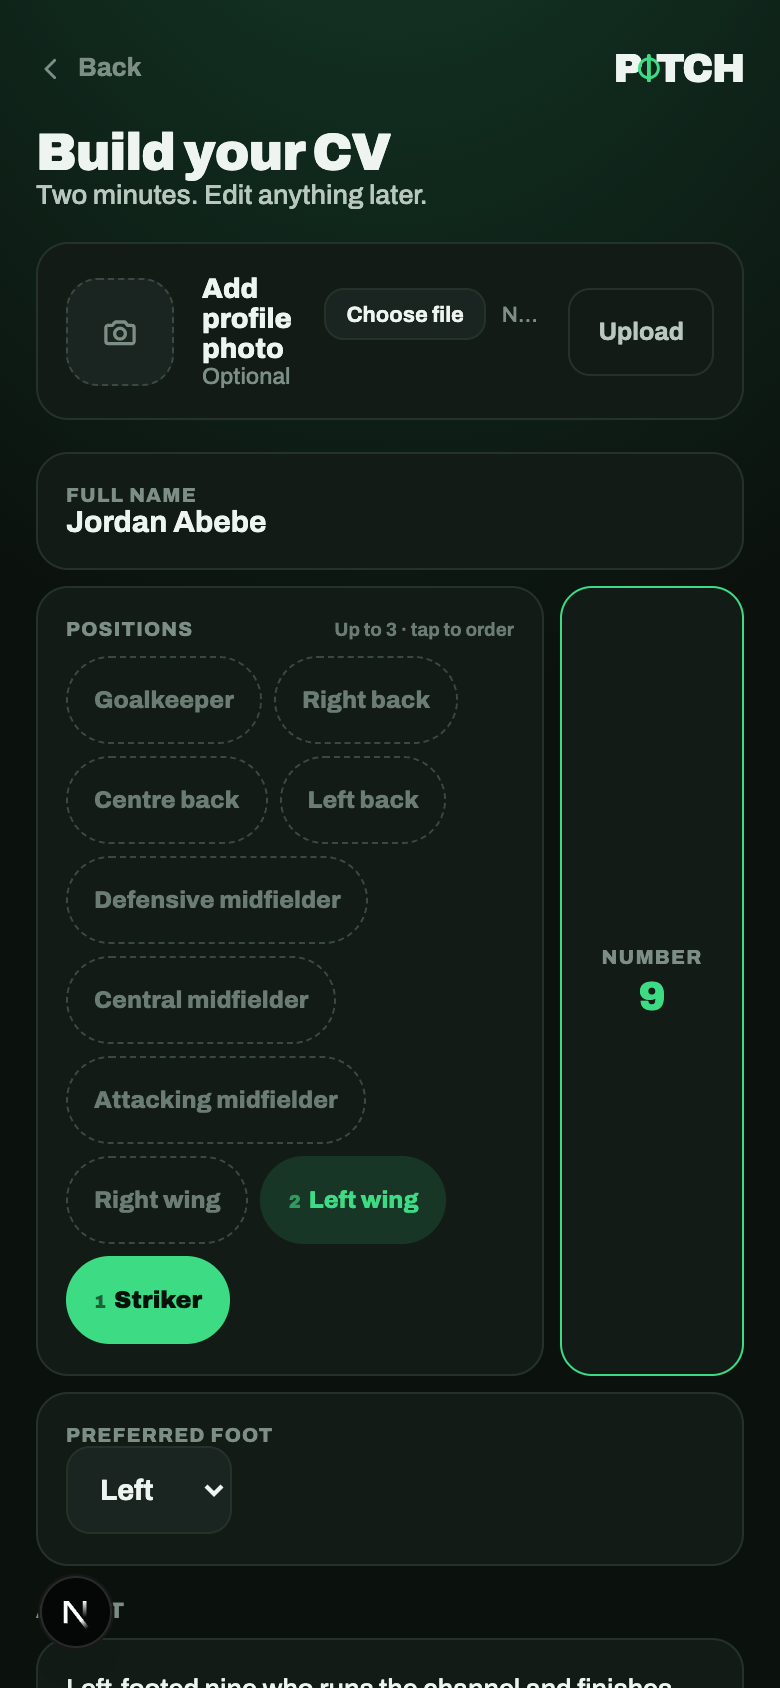
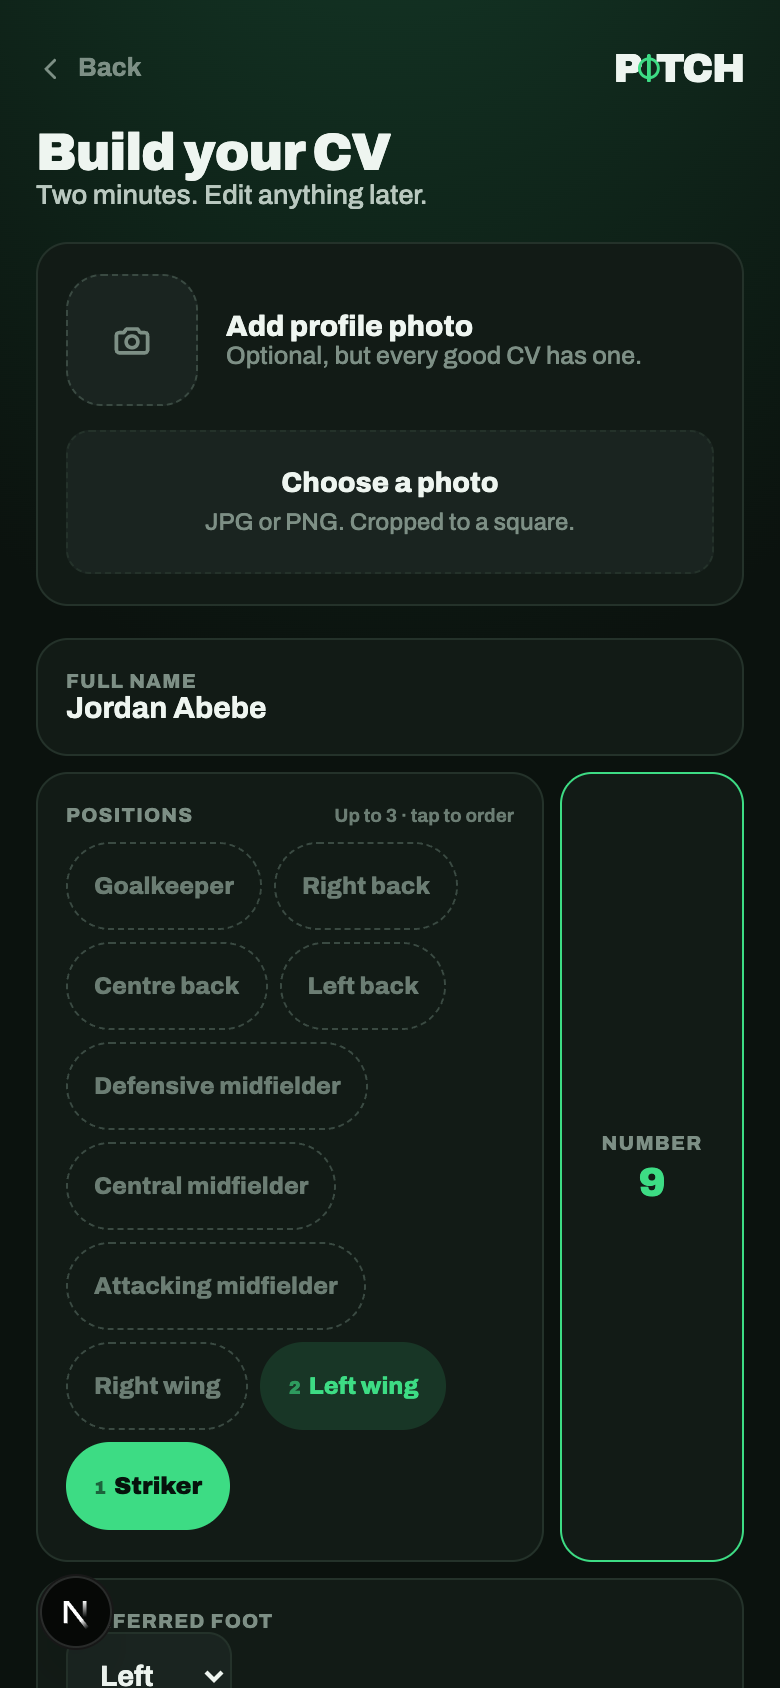
Competition gender is boys, girls, men or women; a clearer photo step
D-68 as amended 15 Sep (register v4.9, BUZ): "mixed" and "open" are gone.
0038 moves "open" squads to men and blanks "mixed" squads and trials for the
club to re-pick, then allows only the four values. The squads form, its
validation, the register labels and the trials filter follow; the trials
filter now offers Boys, Girls, Men and Women. A trial open to everyone
leaves gender blank and shows under All. Seed and permission fixtures
updated; new tests prove mixed and open are refused.

The CV builder's photo step was a squeezed row with a native file control
and a separate Upload button. It is now one clear "Choose a photo" area
that uploads as soon as a photo is picked; without JavaScript the Upload
button appears once a file is chosen. New copy awaiting BUZ.

Preview screens re-captured. Permission 807, render, write 72, all green.

diff --git a/docs/06-Register.html b/docs/06-Register.html
@@ -76,7 +76,7 @@
     <span class="tl"><b>147</b> locked</span>
     <span class="tl"><b>3</b> proposed</span>
     <span class="tl"><b>4</b> open</span>
-    <span class="tl">v4.8 · 15 Sep 2026</span>
+    <span class="tl">v4.9 · 15 Sep 2026</span>
   </div>
 
   <h2>A · Mission &amp; positioning</h2>
@@ -374,8 +374,8 @@
 
   <div class="dec safety"><div class="id">D-68</div><div class="st lk">Locked</div><div class="bd">
     <div class="t">Competition gender lives on the squad, the team listing and the trial notice — never on a child's Person record</div>
-    <div class="w">"U15 Girls, Riverside FC" is a fact about a competition, not an identity attribute on a minor. <b>Rejected:</b> a gender field on a child's Person record — D-25 holds data to the strictly-necessary bar, and an identity attribute on a minor is not strictly necessary for anything the launch product does. <b>What the squad-level shape buys us:</b> the club page lists girls' and women's teams as first-class rows, the trials index filters by girls' age groups from day one, a girl's CV says what she actually plays without Pitch asking her to declare anything, and mixed and MiniRoos football are handled for free — which a person-level field does not do. Girls' football is the most under-valued gap on the board's list and the cheapest to close: it is a filter, a set of rows and a fixture, not a section. <b>Do not build a "girls' football" section</b> — a section reads as a ghetto to the mother deciding in four seconds whether this product was built for someone else's son.</div>
-    <div class="src">Source: Pep session Q2 + Elly A2 · called by BUZ 25 Aug ("women's football is growing")</div></div></div>
+    <div class="w">"U15 Girls, Riverside FC" is a fact about a competition, not an identity attribute on a minor. <b>Rejected:</b> a gender field on a child's Person record — D-25 holds data to the strictly-necessary bar, and an identity attribute on a minor is not strictly necessary for anything the launch product does. <b>What the squad-level shape buys us:</b> the club page lists girls' and women's teams as first-class rows, the trials index filters by girls' age groups from day one, a girl's CV says what she actually plays without Pitch asking her to declare anything, and mixed and MiniRoos football are handled for free — which a person-level field does not do. Girls' football is the most under-valued gap on the board's list and the cheapest to close: it is a filter, a set of rows and a fixture, not a section. <b>Do not build a "girls' football" section</b> — a section reads as a ghetto to the mother deciding in four seconds whether this product was built for someone else's son.<br><br><b>Amended 15 Sep &mdash; four values, no more.</b> <b>BUZ's call:</b> competition gender is <b>boys, girls, men or women</b>. &ldquo;Mixed&rdquo; and &ldquo;open&rdquo; are removed from squads, trial notices, filters and the site. The sentence above that says mixed and MiniRoos football are &ldquo;handled for free&rdquo; no longer holds: <b>a MiniRoos squad picks boys or girls</b>. <b>A trial open to everyone leaves gender blank</b> and appears under &ldquo;All&rdquo; on the trials board. Existing &ldquo;open&rdquo; squads become men; existing &ldquo;mixed&rdquo; squads and trials become blank for the club to re-pick. <b>Unchanged:</b> gender lives on the squad, the team listing and the trial notice, never on a child (D-25).</div>
+    <div class="src">Source: Pep session Q2 + Elly A2 · called by BUZ 25 Aug ("women's football is growing") &middot; amended 15 Sep: four values only (BUZ)</div></div></div>
 
   <div class="dec"><div class="id">D-69</div><div class="st lk">Locked</div><div class="bd">
     <div class="t">Positions: multi-select, maximum three, ordered by preference — goalkeeper is a pickable position, and there is no "still finding my position" state</div>
@@ -834,7 +834,7 @@
     <p style="margin:0;font-size:.87rem;color:var(--ink2)">Two decisions remain open, both club pricing, both deliberately held: <b style="color:var(--ink)">D-36</b> club pricing model and <b style="color:var(--ink)">D-39</b> club free-tier boundary — <b>held until the TD coffees</b>, and <b>D-87</b> gives us until 31 Jan 2027 to close them, so deciding early would be spending the answer before we have earned it. Every coffee asks the same four questions: what was the last software this club paid for, how much, who signed it off, in what month.<br><br><b>D-34 is now closed</b> ($79/yr or $9.99/mo — see D-82). Everything else is called: Stage 0 design-complete (D-22, D-29, D-48–D-52), the launch locked and re-scoped (D-45–D-47, D-74–D-79), post-launch sequence set (D-54–D-58, D-86), the development framework settled (D-60, D-61, D-71), and the 25 Aug board review recorded in full (D-67–D-87), with the design review that followed it (D-88–D-91) and the football vocabulary closed (D-92), with the club role model corrected (D-93) and security set as a standing build posture (D-94), with the legal pack reconciled (D-95–D-98). <b>The handover set is complete:</b> doc 14 (permission tests, the launch gate), doc 15 (every message that sends), doc 16 (positions, stats, fixtures).</p>
   </div>
 
-  <p class="foot">Pitch 3.0 · Design Decisions Register · v4.8 · 15 Sep 2026 · changes only by BUZ's explicit call, by decision number · 25&ndash;27 Aug entries recorded by Leo (CTO)</p>
+  <p class="foot">Pitch 3.0 · Design Decisions Register · v4.9 · 15 Sep 2026 · changes only by BUZ's explicit call, by decision number · 25&ndash;27 Aug entries recorded by Leo (CTO)</p>
 </div>
 </body>
 </html>

diff --git a/app/build/[recordId]/BuildForm.tsx b/app/build/[recordId]/BuildForm.tsx
@@ -23,6 +23,8 @@ const label: React.CSSProperties = { fontSize: 10, fontWeight: 800, letterSpacin
 const input: React.CSSProperties = { background: 'transparent', border: 'none', outline: 'none', color: T.ink, fontSize: 15, fontWeight: 700, fontFamily: 'inherit', padding: 0, width: '100%' };
 
 export default function BuildForm({ record, saved }: { record: RecordData; saved: boolean }) {
+  const [photoName, setPhotoName] = useState<string | null>(null);
+  const [uploading, setUploading] = useState(false);
   const [positions, setPositions] = useState<string[]>(record.positions ?? []);
   const [surfaced, setSurfaced] = useState<string[]>(record.surfaced_stats?.length ? record.surfaced_stats : ['apps', 'goals', 'assists']);
   const toggle = (code: string) =>
@@ -44,22 +46,40 @@ export default function BuildForm({ record, saved }: { record: RecordData; saved
             Saved. {record.has_pending ? 'Your parent will see this change before it goes out.' : ''}
           </div>
         )}
-        {/* photo leads the build screen: every good CV has one */}
-        <form action={`/build/${record.id}/photo`} method="post" encType="multipart/form-data" style={{ ...card, display: 'flex', alignItems: 'center', gap: 14 }}>
-          {record.photo_path ? (
-            /* eslint-disable-next-line @next/next/no-img-element */
-            <img src={record.photo_path} alt="" width={52} height={52} style={{ borderRadius: 16, objectFit: 'cover' }} />
-          ) : (
-            <div style={{ width: 52, height: 52, borderRadius: 16, background: T.surface2, border: '1.5px dashed #3a4a42', display: 'flex', alignItems: 'center', justifyContent: 'center', flexShrink: 0 }}>
-              <svg width="20" height="20" viewBox="0 0 24 24" fill="none" stroke={T.muted} strokeWidth="2" strokeLinecap="round" strokeLinejoin="round"><path d="M5 8 h2.5 l1.5-2 h6 l1.5 2 H19 a1.5 1.5 0 0 1 1.5 1.5 v8 A1.5 1.5 0 0 1 19 19 H5 a1.5 1.5 0 0 1-1.5-1.5 v-8 A1.5 1.5 0 0 1 5 8 Z" /><circle cx="12" cy="13" r="3.2" /></svg>
+        {/* photo leads the build screen: every good CV has one. One big target
+            instead of a squeezed row: choosing a photo uploads it straight
+            away. Without JavaScript the Upload button appears once a file is
+            chosen (globals.css .photo-form), so the form still works. */}
+        <form action={`/build/${record.id}/photo`} method="post" encType="multipart/form-data" className="photo-form"
+          onSubmit={() => setUploading(true)}
+          style={{ ...card, display: 'flex', flexDirection: 'column', gap: 12 }}>
+          <div style={{ display: 'flex', alignItems: 'center', gap: 14 }}>
+            <div style={{ width: 64, height: 64, borderRadius: 18, background: T.surface2, border: record.photo_path ? `1px solid ${T.line}` : '1.5px dashed #3a4a42', display: 'flex', alignItems: 'center', justifyContent: 'center', flexShrink: 0, overflow: 'hidden' }}>
+              {record.photo_path ? (
+                /* eslint-disable-next-line @next/next/no-img-element */
+                <img src={record.photo_path} alt="" width={64} height={64} style={{ objectFit: 'cover' }} />
+              ) : (
+                <svg width="22" height="22" viewBox="0 0 24 24" fill="none" stroke={T.muted} strokeWidth="2" strokeLinecap="round" strokeLinejoin="round" aria-hidden><path d="M5 8 h2.5 l1.5-2 h6 l1.5 2 H19 a1.5 1.5 0 0 1 1.5 1.5 v8 A1.5 1.5 0 0 1 19 19 H5 a1.5 1.5 0 0 1-1.5-1.5 v-8 A1.5 1.5 0 0 1 5 8 Z" /><circle cx="12" cy="13" r="3.2" /></svg>
+              )}
             </div>
-          )}
-          <div style={{ flex: 1 }}>
-            <div style={{ fontSize: 14, fontWeight: 800 }}>Add profile photo</div>
-            <div style={{ fontSize: 11.5, fontWeight: 500, color: T.muted }}>Optional</div>
+            <div style={{ flex: 1 }}>
+              <div style={{ fontSize: 14.5, fontWeight: 800 }}>Add profile photo</div>
+              <div style={{ fontSize: 12.5, fontWeight: 500, color: T.muted }}>Optional, but every good CV has one.</div>
+            </div>
           </div>
-          <input type="file" name="photo" aria-label="Add profile photo" accept="image/*" required style={{ width: 108, height: 44, fontSize: 11, color: T.muted, fontFamily: 'inherit' }} />
-          <button type="submit" style={{ border: `1px solid ${T.line}`, background: 'transparent', color: T.secondary, borderRadius: 11, height: 44, padding: '0 14px', fontSize: 12.5, fontWeight: 700, cursor: 'pointer', fontFamily: 'inherit' }}>Upload</button>
+          <label className="filefield">
+            <input type="file" name="photo" aria-label="Add profile photo" accept="image/*" required
+              onChange={(e) => {
+                const file = e.currentTarget.files?.[0];
+                if (!file) return;
+                setPhotoName(file.name);
+                setUploading(true);
+                e.currentTarget.form?.requestSubmit();
+              }} />
+            <span className="filefield-title">{uploading ? 'Uploading…' : photoName ?? (record.photo_path ? 'Choose a new photo' : 'Choose a photo')}</span>
+            <span className="filefield-hint">JPG or PNG. Cropped to a square.</span>
+          </label>
+          <button type="submit" className="btn btn-secondary photo-save">Upload photo</button>
         </form>
         <form action={act} style={{ display: 'flex', flexDirection: 'column', gap: 16 }}><input type="hidden" name="recordId" value={record.id} />
           <input type="hidden" name="positions" value={positions.join(',')} />

diff --git a/lib/fixtures.ts b/lib/fixtures.ts
@@ -32,7 +32,7 @@ export interface PlayerFixture {
   club: string;
   clubCrestPath?: string;  // the CURRENT club's badge — from membership, never typed
   locality?: string;       // 'Brunswick VIC' — the club's, not the child's address
-  squad: { name: string; ageGroup: string; competitionGender: 'boys' | 'girls' | 'mixed' | 'open' };
+  squad: { name: string; ageGroup: string; competitionGender: 'boys' | 'girls' | 'men' | 'women' | null };
   // Clubs before this one. The player's own account (D-72) — free text, no
   // FK, grants nothing. Never derived from membership: membership only knows
   // clubs that were on Pitch, so deriving it would start everyone's history
@@ -179,7 +179,7 @@ export const JORDAN: PlayerFixture = {
   foot: 'Left',
   club: 'Coburg City FC',
   locality: 'Coburg VIC',
-  squad: { name: 'Seniors Men', ageGroup: 'SEN', competitionGender: 'open' },
+  squad: { name: 'Seniors Men', ageGroup: 'SEN', competitionGender: 'men' },
   previousClubs: [
     { orgName: 'Pascoe Vale SC', period: '2023–2025' },
     { orgName: 'Moreland Zebras FC', period: '2021–2023' },

diff --git a/app/globals.css b/app/globals.css
@@ -337,6 +337,10 @@ select { min-height: 44px; }
 }
 .filefield .filefield-title { font-size: 14px; font-weight: 800; color: var(--ink); }
 .filefield .filefield-hint  { font-size: 12px; font-weight: 500; color: var(--muted); }
+/* The CV builder's photo form uploads as soon as a photo is chosen. Without
+   JavaScript that cannot happen, so its Upload button shows only once a file
+   has been picked — never a dead button, never a squeezed row. */
+.photo-form:not(:has(input[type="file"]:valid)) .photo-save { display: none; }
 
 /* ---------------------------------------------------------------------------
    BUTTONS. The charter's two, named — plus a GHOST, which is a stretch and

diff --git a/app/trials/page.tsx b/app/trials/page.tsx
@@ -80,7 +80,7 @@ export default async function TrialsBoard({ searchParams }: {
         </div>
         <div style={{ display: 'flex', flexWrap: 'wrap', gap: 7, marginTop: -4 }}>
           <Link href={href({ gender: null })} style={pill(!gender)}>All</Link>
-          {[['boys', 'Boys'], ['girls', 'Girls'], ['mixed', 'Mixed']].map(([v, t]) => (
+          {[['boys', 'Boys'], ['girls', 'Girls'], ['men', 'Men'], ['women', 'Women']].map(([v, t]) => (
             <Link key={v} href={href({ gender: gender === v ? null : v })} style={pill(gender === v)}>{t}</Link>
           ))}
         </div>

diff --git a/app/club/squads/page.tsx b/app/club/squads/page.tsx
@@ -22,8 +22,8 @@ const STAGE_LABEL: Record<string, string> = {
   miniroos: 'MiniRoos', junior: 'Juniors', youth: 'Youth', senior: 'Seniors',
 };
 const GENDERS = [
-  ['boys', 'Boys'], ['girls', 'Girls'], ['mixed', 'Mixed'],
-  ['open', 'Open'], ['men', 'Men'], ['women', 'Women'],
+  // D-68 as amended 15 Sep: four values, no mixed and no open.
+  ['boys', 'Boys'], ['girls', 'Girls'], ['men', 'Men'], ['women', 'Women'],
 ];
 
 export default async function Squads({ searchParams }: {

diff --git a/lib/cv-build.ts b/lib/cv-build.ts
@@ -179,7 +179,7 @@ async function buildSnapshot(client: Client, recordId: string, season: string) {
     squad: {
       name: m?.squad_name ?? '',
       ageGroup: m?.age_group ?? '',
-      competitionGender: (m?.competition_gender ?? 'mixed') as 'boys' | 'girls' | 'mixed' | 'open',
+      competitionGender: (m?.competition_gender ?? null) as 'boys' | 'girls' | 'men' | 'women' | null,
     },
     highlightsUsed: r.highlights.length, season,
     ...r.core,

diff --git a/app/club/squads/actions.ts b/app/club/squads/actions.ts
@@ -11,7 +11,8 @@ import { db } from '@/lib/db';
 import { getSessionPersonId } from '@/lib/session';
 import { isUuid } from '@/lib/ids';
 
-const GENDERS = ['boys', 'girls', 'mixed', 'open', 'men', 'women'];
+// D-68 as amended 15 Sep: four values, no mixed and no open.
+const GENDERS = ['boys', 'girls', 'men', 'women'];
 
 async function clubIManage(personId: string): Promise<string | null> {
   const { rows } = await db.query(

diff --git a/lib/record-read.ts b/lib/record-read.ts
@@ -104,7 +104,7 @@ export async function assembleCv(recordId: string, personId: string, band: strin
     squad: {
       name: row.membership?.squad_name ?? '',
       ageGroup: row.membership?.age_group ?? '',
-      competitionGender: row.membership?.competition_gender ?? 'mixed',
+      competitionGender: row.membership?.competition_gender ?? null,
     },
     about: row.core.about ?? '',
     stats: row.stats,

diff --git a/app/club/register/page.tsx b/app/club/register/page.tsx
@@ -38,7 +38,7 @@ const STATUS_CHIP: Record<string, { bg: string; fg: string; label: string }> = {
 };
 
 const GENDER_LABEL: Record<string, string> = {
-  boys: 'Boys', girls: 'Girls', mixed: 'Mixed', open: 'Open', men: 'Men', women: 'Women',
+  boys: 'Boys', girls: 'Girls', men: 'Men', women: 'Women',
 };
 
 type Row = {
